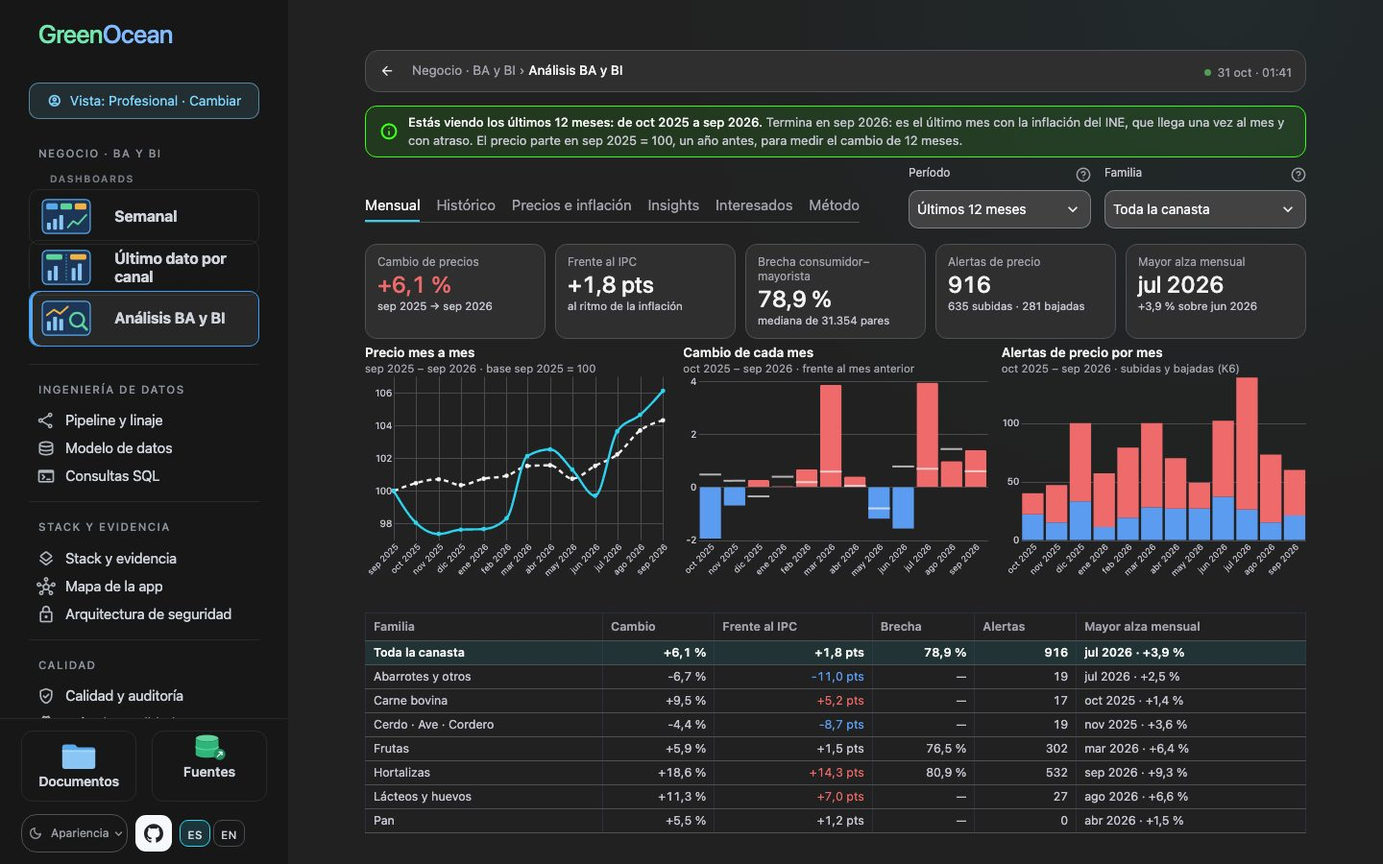
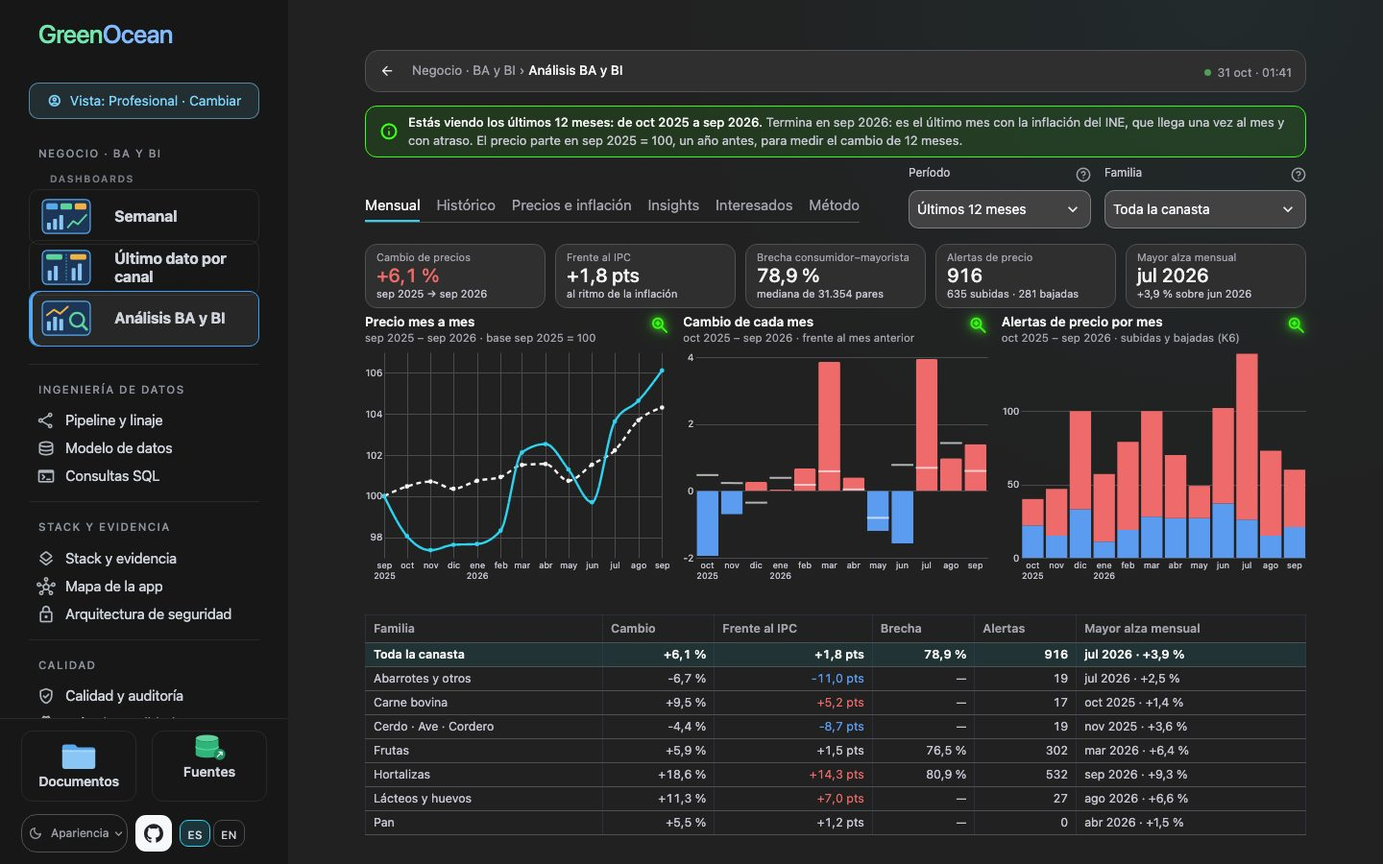
feat(analisis): tarjetas finas, meses en dos líneas cortas y una lupa verde que abre cada gráfico en grande (D-460)
Las tarjetas usan una línea por dato (68 px de alto) y los meses de los
gráficos se leen en dos líneas cortas, con el año solo en el primer mes
y en enero: los gráficos ganan alto en toda pantalla (297 px a
1440 × 900). Una lupa verde junto a cada título abre el gráfico grande
en una ventana, con qué mide y qué se deduce; ya no se abre al pasar
el cursor.

diff --git a/bi/ba_trends.py b/bi/ba_trends.py
@@ -22,10 +22,10 @@ IPC = inflation_view.IPC_NAME
 BASE = (inflation_view.BASE_YEAR, inflation_view.BASE_MONTH)
 LAST_YEAR = "Últimos 12 meses"
 PACE = inflation_view.SAME_PACE_POINTS
-ZOOM_WIDTH, ZOOM_HEIGHT = 680, 250  # the enlarged chart, inside a window never wider than the page
+ZOOM_HEIGHT = 300  # the enlarged chart, in the window its green magnifier opens (D-460)
 # D-458: a tile takes the window's height less what is above and below it (the header, the green panel, the tabs, the
 # cards and the table), never less than the floor.
-TILES_RESERVED, TILES_FLOOR, NARROW_FLOOR = 637, 154, 128
+TILES_RESERVED, TILES_FLOOR, NARROW_FLOOR = 603, 154, 128
 
 # One chart of a tab: its title, the months it shows, what it measures, what follows from it, and how to draw it at a
 # width and a height.
@@ -539,9 +539,10 @@ def history_tiles(rows, figures: dict[str, Any], last: tuple[int, int], mode: st
 
 # region Cards
 def card(label: str, value: str, note: str, hint: str, tone: str = "") -> str:
-    """One KPI card: what it measures, its figure, one line under it and, on hover, how it is computed."""
+    """One KPI card: what it measures, its figure, one line under it and, on hover, its name and how it is computed (a
+    narrow card cuts its lines short, D-460)."""
     return (
-        f'<div class="ba-card" tabindex="0" title="{html.escape(hint, quote=True)}"><span class="ba-card-label">'
+        f'<div class="ba-card" tabindex="0" title="{html.escape(label + ": " + hint, quote=True)}"><span class="ba-card-label">'
         f'{html.escape(label)}</span><b class="ba-card-value {tone}">{html.escape(value)}</b>'
         f'<span class="ba-card-note">{html.escape(note)}</span></div>'
     )
@@ -692,9 +693,31 @@ def label_size(height: Any, small: int = 10) -> int:
     return small + 2 if enlarged(height) else small
 
 
-def month_axis(height: int, **extra: Any) -> Any:
-    """An axis with every month of the period named with its year, «oct 2025», slanted so that none is left out."""
-    return alt.Axis(labelAngle=-45, labelFontSize=label_size(height, 9), labelOverlap=False, **extra)
+def month_axis(height: Any, temporal: bool = False, **extra: Any) -> Any:
+    """An axis that names every month of the period. Enlarged, each month with its year, «oct 2025». On the page, in two
+    short lines that leave the chart its height (D-460): the month, and under it the year, only on the first month and
+    where the year changes, «sep / 2025 · oct · nov · dic · ene / 2026»."""
+    if enlarged(height):
+        return alt.Axis(labelAngle=0, labelFontSize=label_size(height, 9), labelOverlap=False, **extra)
+    if temporal:
+        month, year, january = (
+            "timeFormat(datum.value, '%b')",
+            "timeFormat(datum.value, '%Y')",
+            "month(datum.value) == 0",
+        )
+    else:  # the category is «oct 2025»
+        month, year = "split(datum.value, ' ')[0]", "split(datum.value, ' ')[1]"
+        january = f"{month} == '{month_name(1)}'"
+    expression = f"[{month}, datum.index == 0 || {january} ? {year} : '']"
+    return alt.Axis(
+        labelAngle=0,
+        labelFontSize=9,
+        labelOverlap=False,
+        labelFlush=False,
+        labelExpr=expression,
+        labelPadding=3,
+        **extra,
+    )
 
 
 def trend_chart(
@@ -726,7 +749,7 @@ def trend_chart(
     else:  # D-457: each month is a point, and each point has its month on the axis
         dot = alt.OverlayMarkDef(filled=True, size=40 if enlarged(height) else 22)
         line = alt.Chart(panel).mark_line(interpolate="monotone", strokeWidth=2.4, point=dot)
-        axis = month_axis(height, format="%b %Y", tickCount={"interval": "month", "step": 1})
+        axis = month_axis(height, temporal=True, format="%b %Y", tickCount={"interval": "month", "step": 1})
     chart = line.encode(
         x=alt.X("month_start:T", title=None, scale=alt.Scale(domain=month_domain(start, end)), axis=axis),
         y=alt.Y(
@@ -1180,7 +1203,7 @@ def zoom_text(measures: str, deduce: str) -> str:
     )
 
 
-def build_css(palette: dict[str, str]) -> str:
+def build_css(palette: dict[str, str], green: str) -> str:
     ink, text, muted, card_color, border = (
         palette["strong_text"],
         palette["text"],
@@ -1193,14 +1216,14 @@ def build_css(palette: dict[str, str]) -> str:
 .ba-cards {{ display:grid; grid-template-columns:repeat(5, minmax(0, 1fr)); gap:10px; margin:0 0 6px; }}
 .st-key-ba_head {{ justify-content:space-between; gap:12px; flex-wrap:wrap; }}
 .st-key-ba_filters [data-testid="stWidgetLabel"] p {{ font-size:12px !important; }}
-.ba-card {{ display:flex; flex-direction:column; gap:2px; padding:10px 12px; border:1px solid {border}; border-radius:12px;
-  background:{card_color}; cursor:help; outline:none; }}
+/* D-460: thin cards, one line each: the label, the figure and its note, so the charts get the height. */
+.ba-card {{ display:flex; flex-direction:column; gap:0; padding:6px 11px 7px; border:1px solid {border}; border-radius:12px;
+  background:{card_color}; cursor:help; outline:none; min-width:0; }}
 .ba-card:hover, .ba-card:focus-visible {{ border-color:{accent}; }}
-.ba-card-label {{ font-size:12px; line-height:1.25; color:{muted}; }}
-.ba-card-value {{ font-size:24px; font-weight:700; color:{ink}; font-variant-numeric:tabular-nums; line-height:1.2; }}
+.ba-card-label {{ font-size:11px; line-height:1.3; color:{muted}; white-space:nowrap; overflow:hidden; text-overflow:ellipsis; }}
+.ba-card-value {{ font-size:20px; font-weight:700; color:{ink}; font-variant-numeric:tabular-nums; line-height:1.2; }}
 .ba-card-value.rise {{ color:{rise}; }} .ba-card-value.fall {{ color:{fall}; }}
-.ba-card-note {{ font-size:11.5px; line-height:1.3; color:{text}; display:-webkit-box; -webkit-line-clamp:2;
-  -webkit-box-orient:vertical; overflow:hidden; }}
+.ba-card-note {{ font-size:11px; line-height:1.3; color:{text}; white-space:nowrap; overflow:hidden; text-overflow:ellipsis; }}
 .ba-chart-title {{ margin:0 !important; font-size:13.5px !important; font-weight:600; color:{ink} !important;
   line-height:1.3 !important; }}
 .ba-chart-title span {{ display:block; font-weight:400; color:{muted}; font-size:11.5px; }}
@@ -1212,23 +1235,25 @@ def build_css(palette: dict[str, str]) -> str:
 [class*="st-key-ba_tile_"] > [data-testid="stElementContainer"] [data-testid="stFullScreenFrame"] > div,
 [class*="st-key-ba_tile_"] > [data-testid="stElementContainer"] [data-testid="stVegaLiteChart"] {{
   flex:1 1 auto; height:100%; min-height:0; }}
-/* D-457: a chart grows on hover, never past the page, and says what it measures and what follows from it. */
-[class*="st-key-ba_tile_"] {{ position:relative; cursor:zoom-in; }}
+/* D-460: the green magnifier of a chart opens it large in a window; it glows in the green of GreenOcean (D-450). */
 [class*="st-key-ba_tile_"] [data-testid="stElementToolbar"] {{ display:none !important; }}
-[data-testid="stLayoutWrapper"]:has(> [class*="st-key-ba_zoom_"]) {{ display:contents; }}
-[class*="st-key-ba_zoom_"] {{ position:absolute !important; top:-10px; z-index:60;
-  width:min({ZOOM_WIDTH + 70}px, 72vw) !important; max-width:none !important; gap:6px !important; padding:12px 16px 10px;
-  border:1px solid {accent}; border-radius:14px; background:{card_color}; box-shadow:0 18px 40px -16px rgba(0,0,0,.55);
-  opacity:0; visibility:hidden; pointer-events:none; cursor:default;
-  transition:opacity .15s ease .15s, visibility 0s linear .3s; }}
-[class*="st-key-ba_tile_"]:hover [class*="st-key-ba_zoom_"] {{ opacity:1; visibility:visible; pointer-events:auto;
-  transition:opacity .15s ease .15s; }}
-.st-key-ba_zoom_0 {{ left:-10px; }} .st-key-ba_zoom_1 {{ left:50%; transform:translateX(-50%); }}
-.st-key-ba_zoom_2 {{ right:-10px; }}
+[class*="st-key-ba_chart_head_"] {{ gap:4px !important; flex-wrap:nowrap !important; }}
+[class*="st-key-ba_chart_head_"] > [data-testid="stElementContainer"]:first-child {{ flex:1 1 auto; min-width:0; }}
+[class*="st-key-ba_enlarge_"] button {{ min-height:24px !important; padding:0 2px !important; background:transparent !important;
+  border:0 !important; box-shadow:none !important; }}
+[class*="st-key-ba_enlarge_"] button [data-testid="stMarkdownContainer"] {{ position:absolute !important; width:1px;
+  height:1px; overflow:hidden; clip:rect(0 0 0 0); white-space:nowrap; }}
+[class*="st-key-ba_enlarge_"] button [data-testid="stIconMaterial"] {{ color:{green} !important; font-size:22px !important;
+  filter:drop-shadow(0 0 3px {green}) drop-shadow(0 0 7px color-mix(in srgb, {green} 55%, transparent));
+  transition:transform .15s ease; }}
+[class*="st-key-ba_enlarge_"] button:hover [data-testid="stIconMaterial"] {{ transform:scale(1.18); }}
 .ba-zoom-line {{ margin:0 0 3px !important; font-size:13px !important; line-height:1.45 !important;
   color:{text} !important; }}
 .ba-zoom-line b {{ color:{ink}; margin-right:4px; }}
-[class*="st-key-ba_zoom_"] [data-testid="stVegaLiteChart"] {{ margin-top:8px; }}
+.ba-zoom-title {{ margin:0 40px 8px 0 !important; font-size:17px !important; font-weight:700; color:{ink} !important;
+  line-height:1.3 !important; }}
+.ba-zoom-title span {{ display:block; font-weight:400; font-size:12.5px; color:{muted}; }}
+[role="dialog"]:has(.ba-zoom-title) [data-testid="stElementToolbar"] {{ display:none !important; }}
 .ba-table table {{ width:100%; border-collapse:collapse; font-size:12.5px; }}
 .ba-table th {{ text-align:left; font-weight:600; color:{muted}; padding:4px 8px; border-bottom:1px solid {border};
   cursor:help; }}
@@ -1240,7 +1265,13 @@ def build_css(palette: dict[str, str]) -> str:
 /* D-458: under 1400 px the filters wrap under the six tabs; the green panel already names the period, so they drop
    their labels, and the charts accept a lower floor. */
 @media (max-width:1399px) {{ .st-key-ba_filters [data-testid="stWidgetLabel"] {{ display:none !important; }}
-  [class*="st-key-ba_tile_"] {{ min-height:max(calc(100vh - {TILES_RESERVED + 40}px), {NARROW_FLOOR}px); }} }}
+  [class*="st-key-ba_tile_"] {{ min-height:max(calc(100vh - {TILES_RESERVED}px), {NARROW_FLOOR}px); }}
+  /* D-460: the tabs and the filters keep one row down to 1250 px, so the charts keep that height. */
+  .st-key-ba_tab [data-testid="stButtonGroup"] > div {{ gap:12px !important; }}
+  .st-key-ba_tab button p {{ font-size:13.5px !important; }}
+  .st-key-ba_filters [data-testid="stElementContainer"] {{ width:166px !important; max-width:166px !important; }}
+  .st-key-ba_filters [data-testid="stElementContainer"]:last-child {{ width:172px !important; max-width:172px !important; }}
+  .ba-context p {{ font-size:12.5px !important; }} }}
 </style>"""
 
 

diff --git a/tests/test_ba_trends.py b/tests/test_ba_trends.py
@@ -227,12 +227,19 @@ def test_d457_every_month_of_a_period_has_its_point_and_its_label():
     rows["month_start"] = pd.to_datetime(dict(year=rows["year"], month=rows["month"], day=1))
     spec = ba_trends.trend_chart(rows, "Pan", (2025, 9), (2026, 9), "Vantablack").to_dict()
     axis = spec["encoding"]["x"]["axis"]
-    assert axis["tickCount"] == {"interval": "month", "step": 1} and axis["format"] == "%b %Y"
-    assert axis["labelOverlap"] is False and spec["mark"]["point"]["filled"] is True
+    assert axis["tickCount"] == {"interval": "month", "step": 1} and axis["labelOverlap"] is False
+    assert spec["mark"]["point"]["filled"] is True
+    # D-460: on the page, each month in two short lines, the year under the first month and under January
+    assert axis["labelAngle"] == 0 and axis["labelExpr"] == (
+        "[timeFormat(datum.value, '%b'), datum.index == 0 || month(datum.value) == 0 ? timeFormat(datum.value, '%Y') : '']"
+    )
+    large = ba_trends.trend_chart(rows, "Pan", (2025, 9), (2026, 9), "Vantablack", height=300).to_dict()
+    assert large["encoding"]["x"]["axis"]["format"] == "%b %Y" and "labelExpr" not in large["encoding"]["x"]["axis"]
     whole = ba_trends.trend_chart(rows, "Pan", (2022, 1), (2026, 9), "Vantablack").to_dict()
     assert whole["encoding"]["x"]["axis"]["format"] == "%Y" and "point" not in whole["mark"]  # «Histórico»: years
     bars = ba_trends.months_chart(ba_trends.monthly_changes(rows, "Pan", (2025, 9), (2026, 9)), "Vantablack").to_dict()
-    assert bars["layer"][0]["encoding"]["x"]["axis"]["labelOverlap"] is False  # every month of the change, too
+    axis = bars["layer"][0]["encoding"]["x"]["axis"]  # every month of the change, too, «oct 2025» split in two
+    assert axis["labelOverlap"] is False and "split(datum.value, ' ')[0] == 'ene'" in axis["labelExpr"]
 
 
 def test_d456_the_season_says_which_years_each_calendar_month_gathers():
@@ -251,18 +258,18 @@ def test_d456_the_season_says_which_years_each_calendar_month_gathers():
     assert any(item.get("field") == "years" for item in spec["encoding"]["tooltip"])
 
 
-def test_d457_a_chart_grows_on_hover_never_past_the_page():
-    css = ba_trends.build_css(charts.get_palette("Vantablack"))
-    assert '[class*="st-key-ba_tile_"]:hover [class*="st-key-ba_zoom_"]' in css and "visibility:visible" in css
-    assert f"width:min({ba_trends.ZOOM_WIDTH + 70}px, 72vw)" in css  # never wider than the page
-    assert ".st-key-ba_zoom_0 { left:-10px; }" in css and ".st-key-ba_zoom_2 { right:-10px; }" in css
+def test_d460_the_green_magnifier_opens_the_chart_large_in_a_window():
+    css = ba_trends.build_css(charts.get_palette("Vantablack"), "#39ff14")
+    assert '[class*="st-key-ba_enlarge_"] button [data-testid="stIconMaterial"] { color:#39ff14 !important;' in css
+    assert "drop-shadow(0 0 3px #39ff14)" in css  # it glows
+    assert "st-key-ba_zoom_" not in css and ":hover [class*" not in css  # no more opening on hover
     words = ba_trends.zoom_text("lo que mide", "lo que se deduce")
     assert "<b>Qué mide</b> lo que mide" in words and "<b>Qué se deduce</b> lo que se deduce" in words
 
 
 @needs_database
 @pytest.mark.parametrize("tab", [dashboard.BA_MONTHLY_TAB, dashboard.BA_HISTORY_TAB])
-def test_d457_each_tab_draws_three_charts_each_with_its_enlarged_twin(tab):
+def test_d460_each_tab_draws_three_charts_and_each_magnifier_opens_its_window(tab):
     app = AppTest.from_file(str(Path(dashboard.__file__)), default_timeout=120)
     app.session_state["visitor_profile"] = "profesional"
     app.session_state[dashboard.BA_TAB_KEY] = tab
@@ -270,11 +277,24 @@ def test_d457_each_tab_draws_three_charts_each_with_its_enlarged_twin(tab):
     app.run()
     assert not app.exception
     markup = " ".join(block.value for block in app.markdown)
-    assert markup.count('class="ba-chart-title"') == 6 and markup.count("<b>Qué mide</b>") == 3
-    assert len(app.get("arrow_vega_lite_chart") + app.get("vega_lite_chart")) == 6
+    assert markup.count('class="ba-chart-title"') == 3 and "<b>Qué mide</b>" not in markup
+    assert len(app.get("arrow_vega_lite_chart") + app.get("vega_lite_chart")) == 3
     assert [box.key for box in app.selectbox if box.key in ("ba_period", "ba_family")] == (
         ["ba_period", "ba_family"] if tab == dashboard.BA_MONTHLY_TAB else ["ba_family"]
     )
+    # D-460: its green magnifier opens a chart large in a window, with what it measures and what follows from it
+    assert [button.key for button in app.button if str(button.key).startswith("ba_enlarge_")] == [
+        "ba_enlarge_0",
+        "ba_enlarge_1",
+        "ba_enlarge_2",
+    ]
+    app.button(key="ba_enlarge_1").click().run()
+    assert not app.exception
+    window = app.get("dialog")
+    assert len(window) == 1
+    words = " ".join(block.value for block in window[0].markdown)
+    assert "<b>Qué mide</b>" in words and "<b>Qué se deduce</b>" in words
+    assert len(window[0].get("arrow_vega_lite_chart") + window[0].get("vega_lite_chart")) == 1
 
 
 @needs_database

diff --git a/bi/dashboard.py b/bi/dashboard.py
@@ -5474,11 +5474,15 @@ def show_ba_context(tab, mode):
         lead, detail = ba_trends.stakeholders_context()
     else:
         lead, detail = ba_trends.method_context()
-    green = home_mockup.SEARCH_DARK if is_dark_theme(mode) else home_mockup.SEARCH_LIGHT
     st.markdown(
-        ba_trends.build_context_css(charts.get_palette(mode), green) + ba_trends.context_html(lead, detail),
+        ba_trends.build_context_css(charts.get_palette(mode), ba_green(mode)) + ba_trends.context_html(lead, detail),
         unsafe_allow_html=True,
     )
+
+
+def ba_green(mode):
+    """The fluorescent green of GreenOcean (D-450), deeper on a light theme so it still reads on white."""
+    return home_mockup.SEARCH_DARK if is_dark_theme(mode) else home_mockup.SEARCH_LIGHT
 
 
 def show_ba_filters(tab):
@@ -5524,7 +5528,7 @@ def show_ba_monthly(mode):
     if rows.empty:
         st.info(NO_DATA_TEXT)
         return
-    st.markdown(ba_trends.build_css(palette), unsafe_allow_html=True)
+    st.markdown(ba_trends.build_css(palette, ba_green(mode)), unsafe_allow_html=True)
     choices, family = chosen_ba_family(rows)
     period = st.session_state.get("ba_period")
     if period not in ba_trends.periods(last):
@@ -5547,7 +5551,7 @@ def show_ba_history(mode):
     if rows.empty:
         st.info(NO_DATA_TEXT)
         return
-    st.markdown(ba_trends.build_css(palette), unsafe_allow_html=True)
+    st.markdown(ba_trends.build_css(palette, ba_green(mode)), unsafe_allow_html=True)
     choices, family = chosen_ba_family(rows)
     figures = ba_trends.history(rows, margins, seasonal, found, family, last)
     st.markdown(ba_trends.history_cards(figures, last), unsafe_allow_html=True)
@@ -5557,18 +5561,30 @@ def show_ba_history(mode):
 
 
 def show_ba_tiles(tiles):
-    """D-457: three charts side by side, each with its title and the months it shows. On hover a chart grows, never
-    past the page, and says what it measures and what follows from it."""
+    """D-457, D-460: three charts side by side, each with its title and the months it shows. Its green magnifier opens it
+    large in a window, with what it measures and what follows from it."""
     for index, (column, (title, note, measures, deduce, draw)) in enumerate(zip(st.columns(3, gap="medium"), tiles)):
         heading = f'<p class="ba-chart-title">{html.escape(title)}<span>{html.escape(note)}</span></p>'
         with column, st.container(key=f"ba_tile_{index}"):
-            st.markdown(heading, unsafe_allow_html=True)
+            # its own key: a key that started with «ba_tile_» would take the tile's height rules and leave the chart none
+            with st.container(key=f"ba_chart_head_{index}", horizontal=True, vertical_alignment="top"):
+                st.markdown(heading, unsafe_allow_html=True, width="stretch")
+                if st.button(
+                    tr("Ampliar"), icon=":material/zoom_in:", key=f"ba_enlarge_{index}", help=tr("Ampliar el gráfico")
+                ):
+                    st.dialog(title, width="large")(show_ba_chart_dialog)(title, note, measures, deduce, draw)
             st.altair_chart(draw(height="container"), width="stretch", height="stretch", theme=None)
-            with st.container(key=f"ba_zoom_{index}"):
-                st.markdown(heading + ba_trends.zoom_text(measures, deduce), unsafe_allow_html=True)
-                st.altair_chart(
-                    draw(width=ba_trends.ZOOM_WIDTH, height=ba_trends.ZOOM_HEIGHT), width="content", theme=None
-                )
+
+
+def show_ba_chart_dialog(title, note, measures, deduce, draw):
+    """D-460: a chart of «Mensual» or «Histórico» at the size of the window, with its months, what it measures and what
+    follows from it. The window's own title is hidden in every dialog (D-316), so the chart's title opens its content."""
+    st.markdown(
+        f'<p class="ba-zoom-title">{html.escape(title)}<span>{html.escape(note)}</span></p>'
+        + ba_trends.zoom_text(measures, deduce),
+        unsafe_allow_html=True,
+    )
+    st.altair_chart(draw(width="container", height=ba_trends.ZOOM_HEIGHT), width="stretch", theme=None)
 
 
 def show_ba_method(mode):

diff --git a/bi/i18n.py b/bi/i18n.py
@@ -214,6 +214,7 @@ EN = {
     ":material/storefront: Mayorista": ":material/storefront: Wholesale",
     ":material/database: Datos": ":material/database: Data",
     "Ampliar la tabla de productos": "Enlarge the products table",
+    "Ampliar el gráfico": "Enlarge the chart",  # D-460
     "Variación semanal, %. Rojo: subió · Azul: bajó.": "Weekly change, %. Red: rose · Blue: fell.",
     "Últimas {} semanas": "Last {} weeks",
     "Total {} sem": "Total {} wk",

diff --git a/docs/negocio/PRD.md b/docs/negocio/PRD.md
@@ -4,7 +4,7 @@
 |---|---|
 | Proyecto | GreenOcean |
 | Tipo de documento | Documento de requisitos del producto (PRD) |
-| Versión | 3.25 |
+| Versión | 3.26 |
 | Fecha | 02-11-2026 |
 | Estado | Vigente |
 | Responsable | El autor |
@@ -152,7 +152,7 @@ Estas son seis capturas reales, del 02-11-2026, de cinco páginas principales y 
 - **Menú:** cinco secciones: Negocio · BA y BI, Ingeniería de datos, DevOps y seguridad, Stack y evidencia, y Calidad. La primera reúne, bajo el título «Dashboards», tres recuadros con ícono de dashboard, que siguen a la vista aunque la sección se pliegue: Semanal, Último dato por canal y Análisis BA y BI (D-442, D-452, D-453, D-456, D-459).
 - **Semanal:** se lee en tres pasos numerados. Primero se elige una región o todo Chile, después una familia, y al final se miran sus productos. Cada paso se abre al completar el anterior. Los tres pasos quedan siempre juntos en una sola pantalla; la tabla de productos llena el panel 3, se desplaza sola y se amplía con su propio botón (D-446, D-447).
 - **Último dato por canal:** una tarjeta por canal, con su ícono 3D en sus propios colores (D-453), su última semana, sus precios, su variación y las familias que publica. Cada tarjeta abre ese canal con los pasos del dashboard Semanal y se comporta igual que él, aunque la otra fuente todavía no publique esa semana (D-404 a D-406, D-452).
-- **Análisis BA y BI:** seis pestañas (D-456, D-457). «Mensual» es un período, los últimos 12 meses o un año, mes a mes: cinco cifras clave (cambio de precios, frente al IPC, brecha consumidor–mayorista, alertas de precio y mayor alza mensual), tres gráficos (precio mes a mes, cambio de cada mes y alertas de precio por mes) y la tabla por familia. «Histórico» es toda la historia, de enero 2022 al último mes que publicó el INE: cinco cifras clave (cambio desde enero 2022, frente al IPC, año de mayor alza, mes más barato y alertas de precio), tres gráficos (precio desde enero 2022, cambio de cada año y temporada) y la tabla por familia. Cada gráfico dice qué meses muestra; al pasar el cursor se agranda y dice qué mide y qué se deduce, y cada cifra explica cómo se calcula. Las otras cuatro son Precios e inflación, Insights, Interesados y Método. Sobre las pestañas, un recuadro verde dice qué se está viendo, de qué mes a qué mes y por qué empieza y termina ahí; cambia con la pestaña y el período (D-458).
+- **Análisis BA y BI:** seis pestañas (D-456, D-457). «Mensual» es un período, los últimos 12 meses o un año, mes a mes: cinco cifras clave (cambio de precios, frente al IPC, brecha consumidor–mayorista, alertas de precio y mayor alza mensual), tres gráficos (precio mes a mes, cambio de cada mes y alertas de precio por mes) y la tabla por familia. «Histórico» es toda la historia, de enero 2022 al último mes que publicó el INE: cinco cifras clave (cambio desde enero 2022, frente al IPC, año de mayor alza, mes más barato y alertas de precio), tres gráficos (precio desde enero 2022, cambio de cada año y temporada) y la tabla por familia. Cada gráfico dice qué meses muestra, y su lupa verde lo abre en grande, con qué mide y qué se deduce; cada cifra explica al pasar el cursor cómo se calcula. Las otras cuatro son Precios e inflación, Insights, Interesados y Método. Sobre las pestañas, un recuadro verde dice qué se está viendo, de qué mes a qué mes y por qué empieza y termina ahí; cambia con la pestaña y el período (D-458).
 - **Stack y evidencia:** dos vistas. «Herramientas» explica cada herramienta; «Flujo del sistema en vivo» muestra las piezas reales, lo que se dicen y la carga en curso (D-412).
 
 [[diagrama:mockups]]
@@ -245,3 +245,4 @@ Las siglas y los términos de este documento se definen en el [Glosario](GLOSARI
 | 3.23 | 02-11-2026 | «Análisis BA y BI» separa la historia de los precios en «Mensual», un período mes a mes, e «Histórico», de enero 2022 al último mes por año y temporada; cada gráfico dice sus meses y, al pasar el cursor, qué mide y qué se deduce (3.2, 7, D-457) |
 | 3.24 | 02-11-2026 | Un recuadro verde sobre las pestañas de «Análisis BA y BI» dice qué se ve, de qué mes a qué mes y por qué, según la pestaña y el período (7, D-458) |
 | 3.25 | 02-11-2026 | Los tres dashboards de «Negocio · BA y BI» van bajo el título «Dashboards», y el primero, el de la semana, se llama «Semanal» (3.1 a 3.4, 4, 6, 7, D-459) |
+| 3.26 | 02-11-2026 | En «Análisis BA y BI» las tarjetas son más finas, los meses se leen en dos líneas cortas y una lupa verde abre cada gráfico en grande (7, D-460) |

diff --git a/docs/en/negocio/PRD.md b/docs/en/negocio/PRD.md
@@ -4,7 +4,7 @@
 |---|---|
 | Project | GreenOcean |
 | Document type | Product Requirements Document (PRD) |
-| Version | 3.25 |
+| Version | 3.26 |
 | Date | 2026-11-02 |
 | Status | Current |
 | Owner | The author |
@@ -152,7 +152,7 @@ These are six real captures, of 2026-11-02, of five main pages and in the four c
 - **Menu:** five sections: Business · BA and BI, Data engineering, DevOps and security, Stack and evidence, and Quality. The first gathers, under the title «Dashboards», three tiles with a dashboard icon, which stay in sight even when the section folds: Weekly, Latest data by channel and BA and BI analysis (D-442, D-452, D-453, D-456, D-459).
 - **Weekly:** it reads in three numbered steps. First a region or all of Chile is chosen, then a family, and last its products are shown. Each step opens when the one before is done. The three steps always stay together on one screen; the products table fills panel 3, scrolls by itself and is enlarged with its own button (D-446, D-447).
 - **Latest data by channel:** one card per channel, with its 3D icon in its own colours (D-453), its latest week, its prices, its change and the families it publishes. Each card opens that channel with the steps of the Weekly dashboard and behaves exactly like it, even if the other source has not published that week yet (D-404 to D-406, D-452).
-- **BA and BI analysis:** six tabs (D-456, D-457). «Monthly» is one period, the last 12 months or one year, month by month: five key figures (price change, against the CPI, consumer–wholesale gap, price alerts and biggest monthly rise), three charts (price month by month, change of each month and price alerts by month) and the table by family. «Historical» is the whole history, from January 2022 to the last month the INE published: five key figures (change since January 2022, against the CPI, year of the biggest rise, cheapest month and price alerts), three charts (price since January 2022, change of each year and season) and the table by family. Each chart says which months it shows; on hover it grows and says what it measures and what follows from it, and each figure explains how it is computed. The other four are Prices and inflation, Insights, Stakeholders and Method. Above the tabs, a green panel says what is being shown, from which month to which and why it starts and ends there; it follows the tab and the period (D-458).
+- **BA and BI analysis:** six tabs (D-456, D-457). «Monthly» is one period, the last 12 months or one year, month by month: five key figures (price change, against the CPI, consumer–wholesale gap, price alerts and biggest monthly rise), three charts (price month by month, change of each month and price alerts by month) and the table by family. «Historical» is the whole history, from January 2022 to the last month the INE published: five key figures (change since January 2022, against the CPI, year of the biggest rise, cheapest month and price alerts), three charts (price since January 2022, change of each year and season) and the table by family. Each chart says which months it shows, and its green magnifier opens it large, with what it measures and what follows from it; each figure explains on hover how it is computed. The other four are Prices and inflation, Insights, Stakeholders and Method. Above the tabs, a green panel says what is being shown, from which month to which and why it starts and ends there; it follows the tab and the period (D-458).
 - **Stack and evidence:** two views. «Tools» explains each tool; «Live system flow» shows the real pieces, what they say to each other and the running load (D-412).
 
 [[diagrama:mockups]]
@@ -245,3 +245,4 @@ The acronyms and terms of this document are defined in the [Glossary](GLOSARIO.m
 | 3.23 | 2026-11-02 | «BA and BI analysis» splits the history of prices into «Monthly», one period month by month, and «Historical», from January 2022 to the last month by year and season; each chart says its months and, on hover, what it measures and what follows from it (3.2, 7, D-457) |
 | 3.24 | 2026-11-02 | A green panel above the tabs of «BA and BI analysis» says what is shown, from which month to which and why, by tab and period (7, D-458) |
 | 3.25 | 2026-11-02 | The three dashboards of «Business · BA and BI» go under the title «Dashboards», and the first, the week's, is called «Weekly» (3.1 to 3.4, 4, 6, 7, D-459) |
+| 3.26 | 2026-11-02 | In «BA and BI analysis» the cards are thinner, the months read in two short lines and a green magnifier opens each chart large (7, D-460) |

diff --git a/docs/DECISIONES.md b/docs/DECISIONES.md
@@ -3723,3 +3723,16 @@ Desde D-279, el plan de capacidad y escalabilidad es un documento propio: `docs/
   - **Lo que no cambia:** la página, sus tres pasos y sus cifras. Las otras dos conservan su nombre. Los historiales de versiones y las decisiones anteriores dicen «Dashboard», como se llamaba entonces.
 - **Coherencia:** el nombre cambia en la app, en el mapa de la app, en Stack y evidencia, en Insights («dónde verlo») y en los documentos: PRD 3.25, SAD 3.17, SQAP 1.11, Glosario 2.10 y MANUAL 3.15, en los dos idiomas, más CLAUDE.md, README, `docs/PROYECTO.md` y la política de calidad. Los enlaces de los documentos a la página (`[[vista:Semanal]]`, `[[vista:Weekly]]`) llevan a ella. Las seis capturas de los documentos se tomaron de nuevo, con el menú nuevo, en los dos idiomas.
 - **Pruebas:** `tests/test_menu_order.py::test_d459_the_three_dashboards_sit_under_their_title_and_the_old_address_opens_semanal` (el título, los tres nombres en los dos idiomas y la dirección antigua), y las del menú, el encabezado, el idioma y los documentos, con el nombre nuevo.
+
+## D-460 · «Análisis BA y BI»: tarjetas finas, meses en dos líneas cortas y una lupa verde que abre cada gráfico en grande
+
+- **Pedido del autor:** las tarjetas ocupaban mucho alto y los gráficos del medio se veían comprimidos; en su pantalla, más angosta, las notas de las tarjetas ocupaban hasta tres líneas. Además, en vez de agrandar el gráfico al pasar el cursor, prefiere un ícono verde luminoso que lo abra.
+- **Diagnóstico:** en una pantalla angosta, las etiquetas inclinadas de los meses («sep 2025» a 45°) se comían la mitad del alto de cada gráfico, y los filtros bajaban a otra fila bajo las seis pestañas.
+- **Decisión:**
+  - **Tarjetas finas:** una línea para el nombre, otra para la cifra y otra para su nota. Si una no cabe, termina en «…», y la tarjeta la dice completa al pasar el cursor. Bajan a 68 px de alto (antes, 83 px a 1440 × 900, y más en una pantalla angosta).
+  - **Meses en dos líneas cortas:** en los gráficos de la página, cada mes lleva su nombre corto y, debajo, el año, solo en el primer mes y en enero («sep / 2025 · oct · … · ene / 2026»). En la ventana grande, cada mes lleva su año, «sep 2025».
+  - **Lupa verde:** junto al título de cada gráfico hay una lupa en el verde flúor de GreenOcean (D-450), con un brillo. Al hacer clic se abre una ventana con el gráfico grande, sus meses, «Qué mide» y «Qué se deduce». Ya no se abre al pasar el cursor (reemplaza el zoom de D-457), y la página dibuja tres gráficos en vez de seis.
+  - **Pantallas angostas:** bajo 1400 px las pestañas y los filtros se achican un poco y siguen en una sola fila hasta 1250 px de ancho.
+- **Medición (Playwright):** todo cabe sin desplazar la página a 1440 × 900, 1440 × 790 (español e inglés), 1366 × 768, 1280 × 800 y 1280 × 720. Los gráficos miden 297 px de alto a 1440 × 900 (antes 263), 187 px a 1440 × 790 (antes 154) y 197 px a 1280 × 800 (antes 128).
+- **Documentos:** PRD 3.26 (7) y la captura M-3, en los dos idiomas.
+- **Pruebas:** `tests/test_ba_trends.py::test_d460_the_green_magnifier_opens_the_chart_large_in_a_window`, `::test_d460_each_tab_draws_three_charts_and_each_magnifier_opens_its_window` (la lupa abre la ventana con sus textos y su gráfico) y `::test_d457_every_month_of_a_period_has_its_point_and_its_label` (las etiquetas en dos líneas en la página y completas en la ventana).
